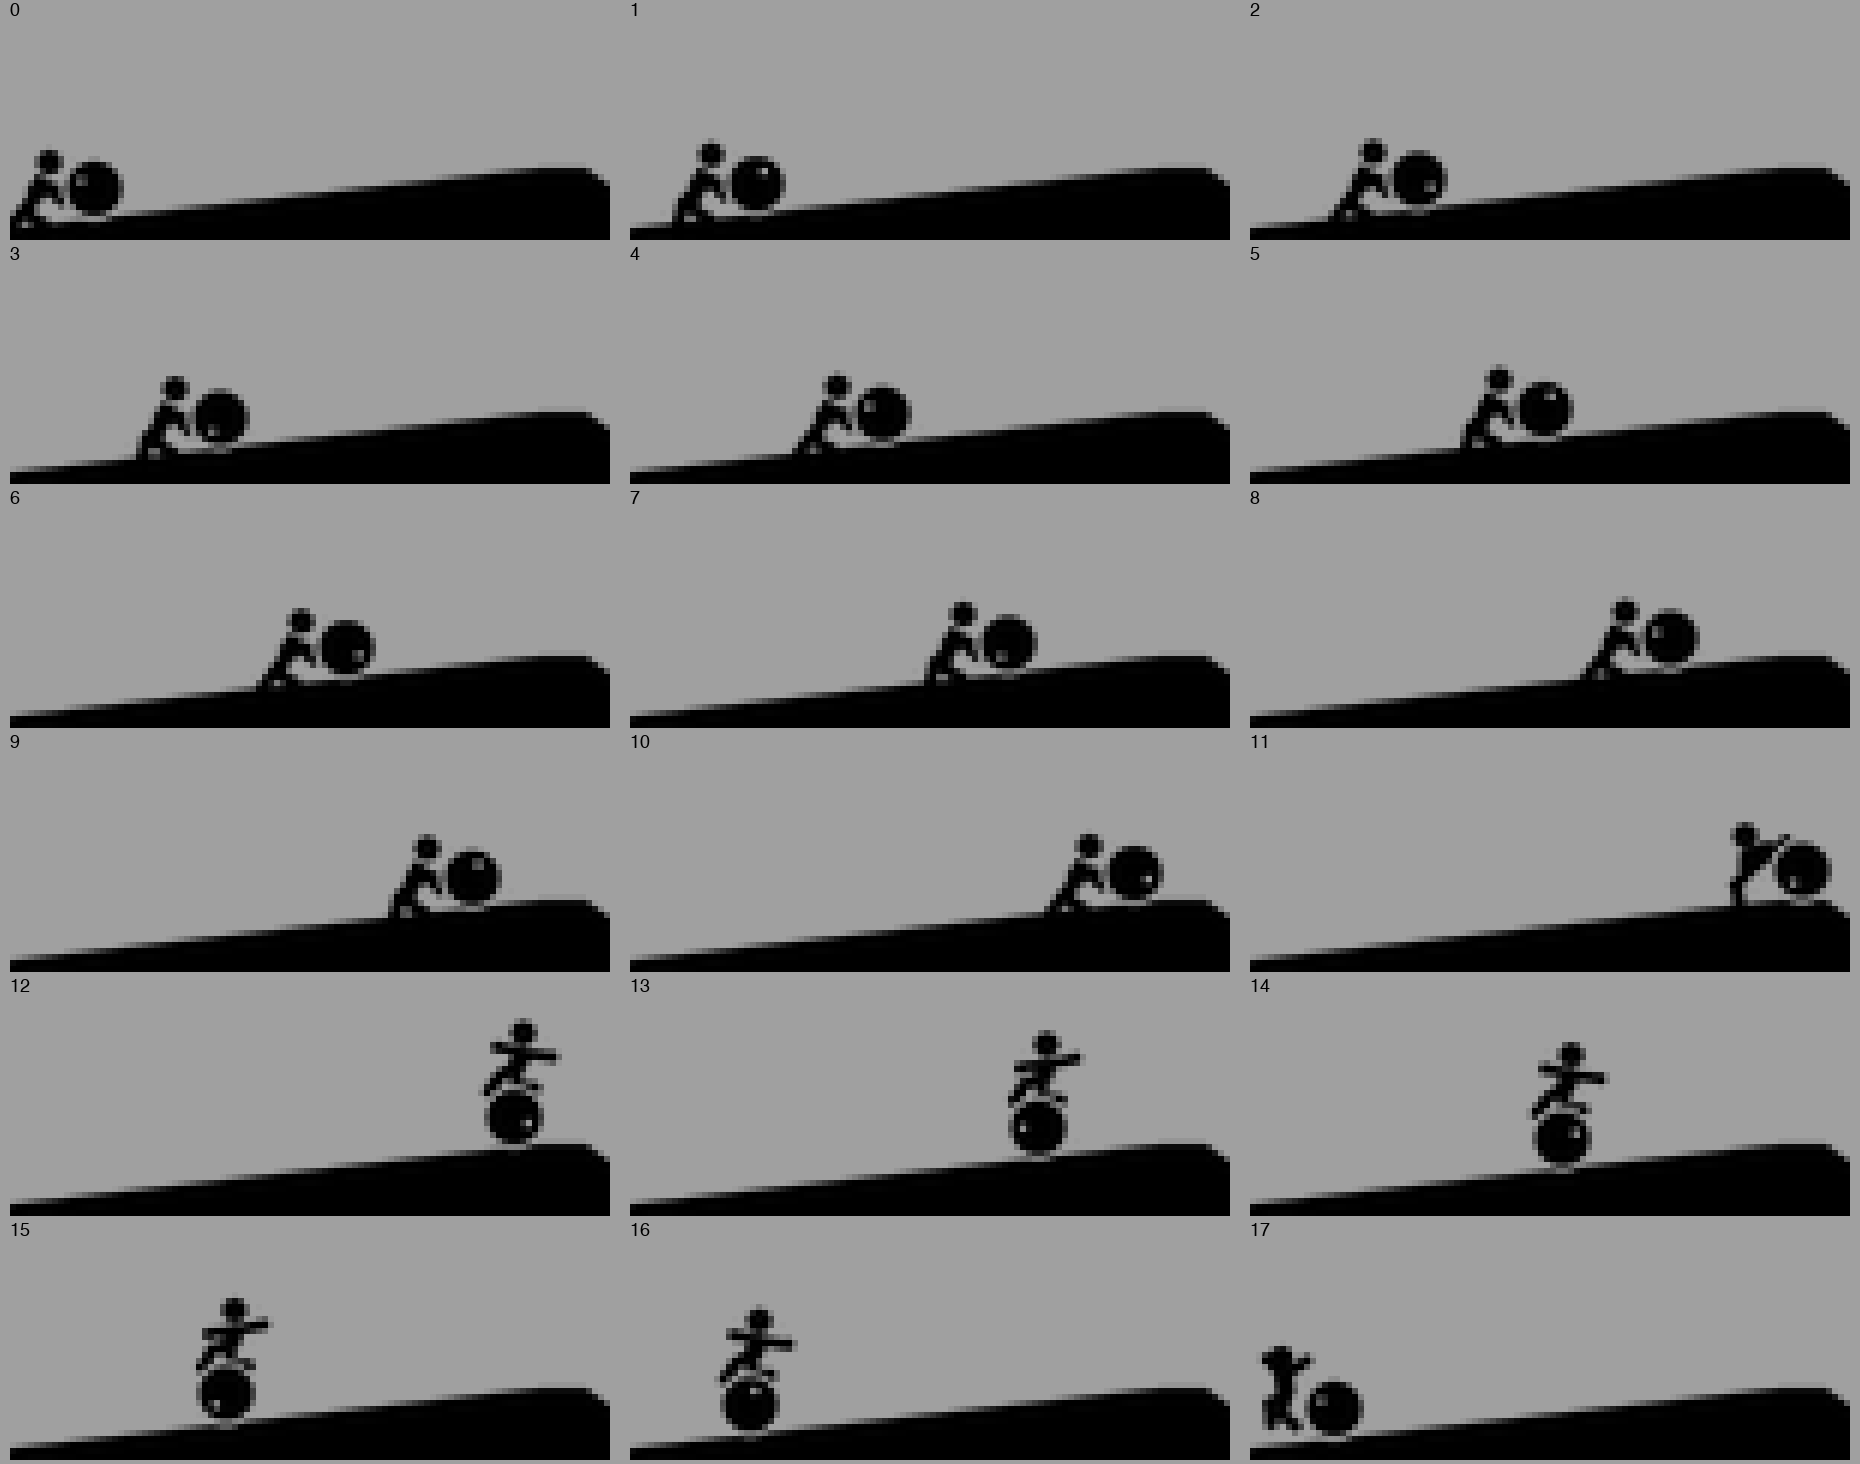
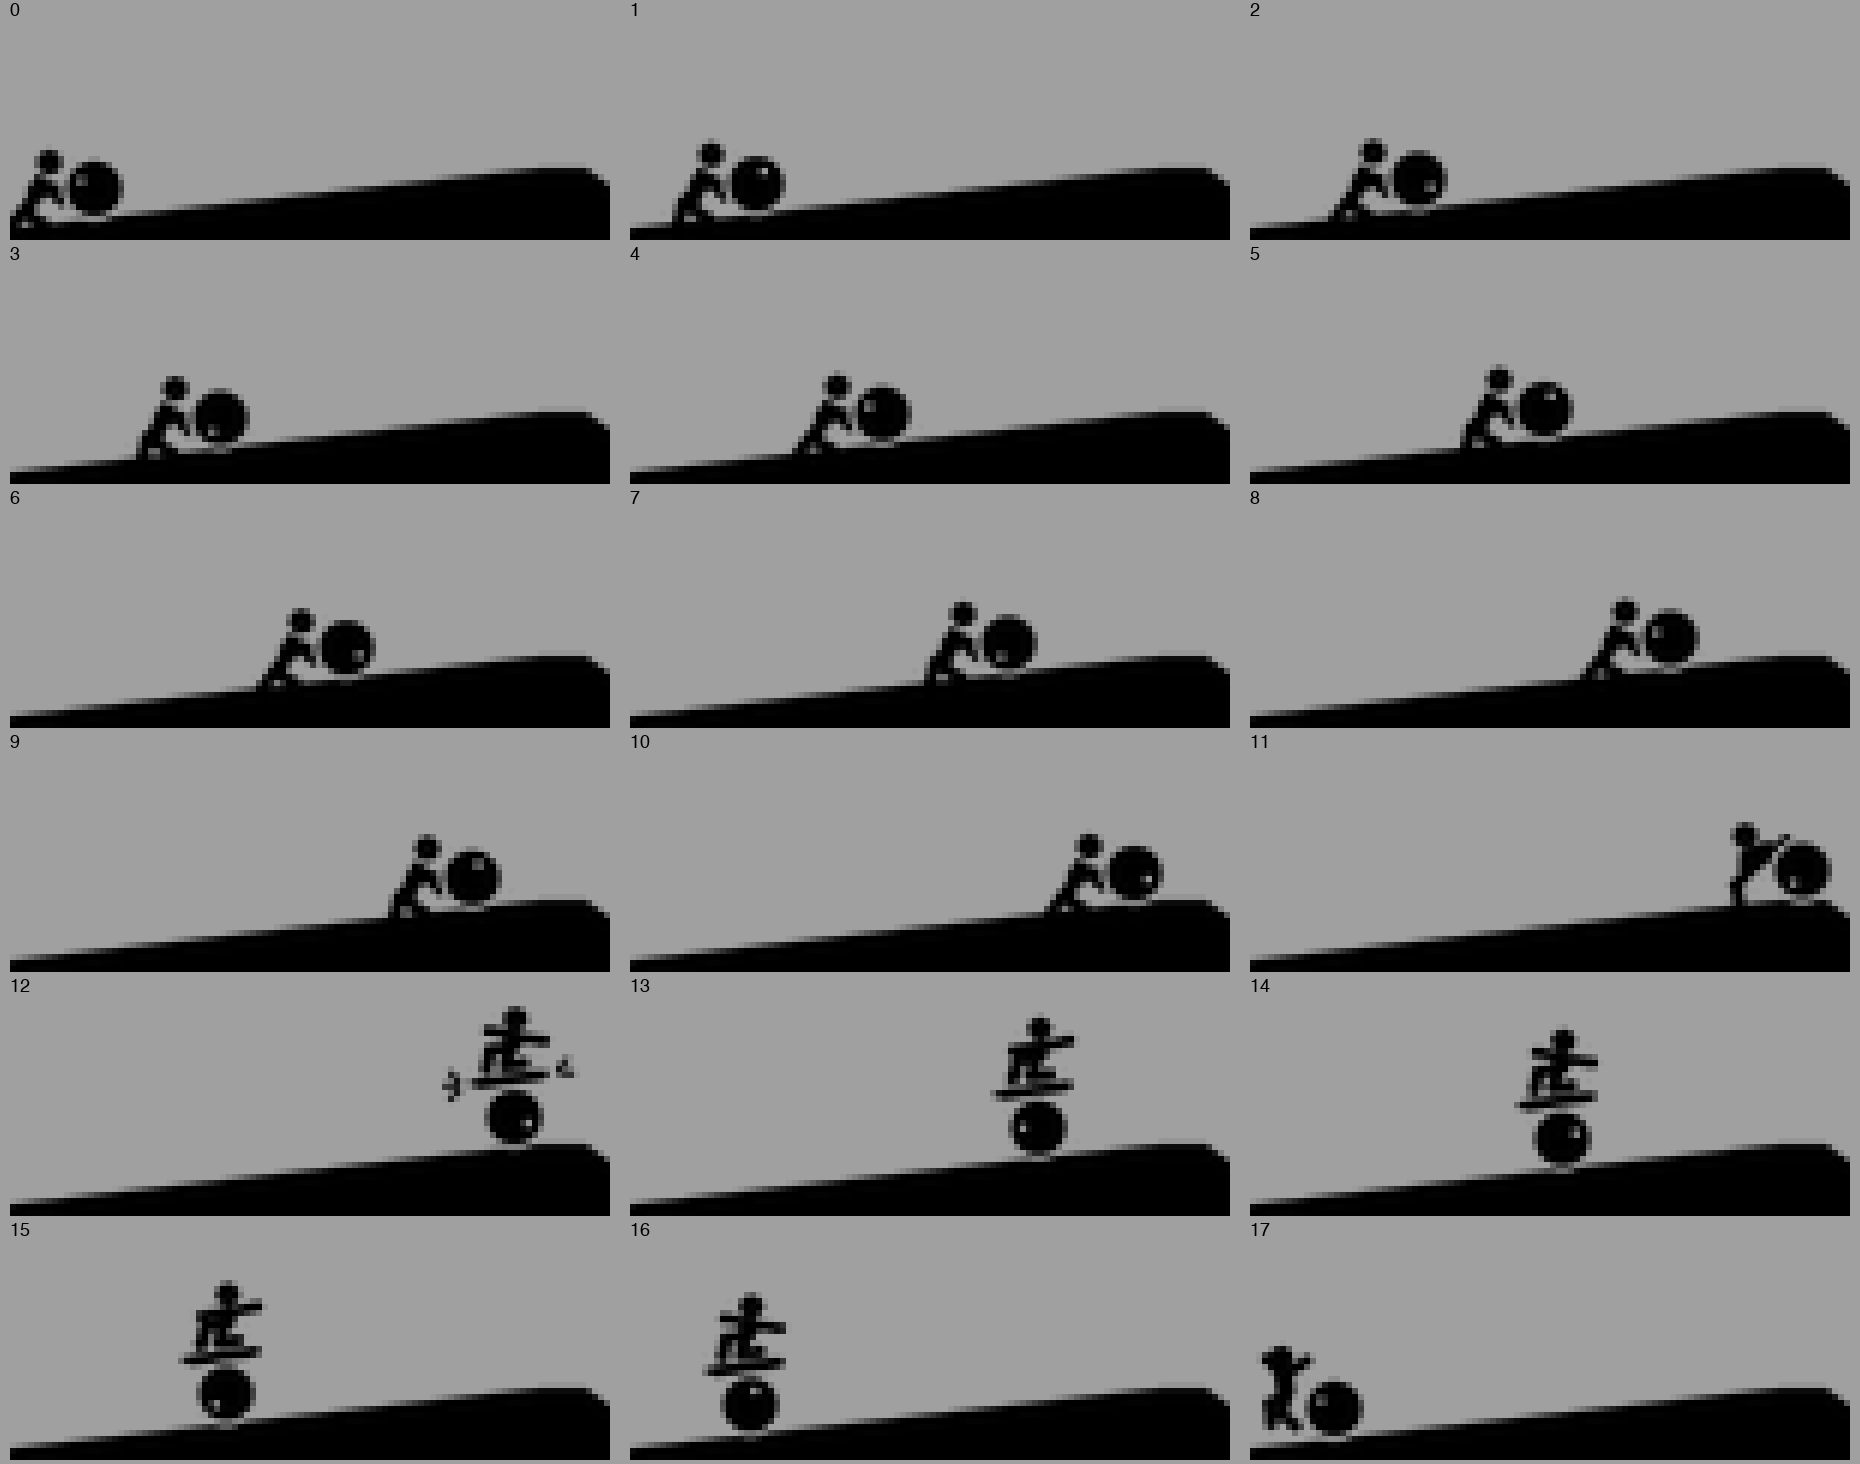
feat: Surfingphus rides a surfboard that appears on the boulder

diff --git a/scratchpad/sisyphus/gen.py b/scratchpad/sisyphus/gen.py
@@ -65,27 +65,58 @@ def leg(d, hip, foot, bend):
     else:
         line(d, hip, foot, 2.0)
 
+BOARD_TILT = math.radians(8)  # nose down-left, roughly following the slope
+
+def board_frame(rx, ry):
+    # board centre sits on top of the boulder, clear of its halo; u runs along the board
+    # (uphill = right), n is the board's up normal
+    u = (math.cos(BOARD_TILT), -math.sin(BOARD_TILT))
+    n = (-math.sin(BOARD_TILT), -math.cos(BOARD_TILT))
+    off = R + 0.9 + 0.9
+    return (rx + n[0] * off, ry + n[1] * off), u, n
+
+def board_pt(c, u, n, s, h):
+    return (c[0] + u[0] * s + n[0] * h, c[1] + u[1] * s + n[1] * h)
+
+def draw_board(d, rx, ry):
+    c, u, n = board_frame(rx, ry)
+    # ~14 px long, 1.8 px thick, pointed nose with a little rocker
+    pts = [(-7.0, 0.4), (-5.0, 0.9), (5.0, 0.9), (6.6, 0.6), (6.6, -0.5), (5.0, -0.9), (-5.0, -0.9)]
+    d.polygon([P(*board_pt(c, u, n, s, h)) for s, h in pts], fill=255)
+
+def sparkle(d, rx, ry):
+    # a few short radiating ticks at the board's ends: the board has just appeared
+    c, u, n = board_frame(rx, ry)
+    for s0, dirs in ((-7.6, ((-1, 0), (-0.8, -0.8), (-0.8, 0.8))), (7.6, ((1, 0), (0.8, -0.8)))):
+        o = board_pt(c, u, n, s0, 0.0)
+        for dx, dy in dirs:
+            L = math.hypot(dx, dy)
+            a = (o[0] + 1.2 * dx / L, o[1] + 1.2 * dy / L)
+            b = (o[0] + 3.0 * dx / L, o[1] + 3.0 * dy / L)
+            line(d, a, b, 0.9)
+
 def surfman(d, mode, rx, ry):
-    # surfer on the boulder's top, side-on, facing left (downhill): wide stance,
-    # knees bent, torso leaning back uphill (right), arms spread out
-    rf = R + 0.9 + 0.55  # foot centre distance from boulder centre (clears the halo)
+    # surfer standing on the board across the boulder's top, side-on, facing left
+    # (downhill): wide stance, knees bent, torso leaning back uphill (right), arms out
+    c, u, n = board_frame(rx, ry)
     A = mode == "surfA"
-    ph = (-0.78, 0.62) if A else (-0.72, 0.68)
-    ft = [(rx + rf * math.sin(p), ry - rf * math.cos(p)) for p in ph]
-    hip = ((ft[0][0] + ft[1][0]) / 2 + 0.8, min(ft[0][1], ft[1][1]) - 3.6)
+    ss = (-3.4, 2.8) if A else (-3.0, 3.2)
+    ft = [board_pt(c, u, n, s, 2.3) for s in ss]
+    hip = ((ft[0][0] + ft[1][0]) / 2 + 0.8, min(ft[0][1], ft[1][1]) - 2.6)
     t = math.radians(26 if A else 18)
-    sh = (hip[0] + 3.0 * math.sin(t), hip[1] - 3.0 * math.cos(t))
-    head = (sh[0] - 0.2, sh[1] - 2.8)
+    sh = (hip[0] + 2.6 * math.sin(t), hip[1] - 2.6 * math.cos(t))
+    head = (sh[0] - 0.2, sh[1] - 2.5)
     torso(d, hip, sh, 3.0)
     for f in ft: leg(d, hip, f, True)
     ash = (sh[0], sh[1] + 0.4)
     hands = [(-4.6, -0.9), (4.6, 0.7)] if A else [(-4.6, 0.7), (4.6, -0.9)]
     for dx, dy in hands: line(d, ash, (ash[0] + dx, ash[1] + dy), 1.8)
-    d.ellipse([P(head[0] - 2, head[1] - 2), P(head[0] + 2, head[1] + 2)], fill=255)
+    d.ellipse([P(head[0] - 1.9, head[1] - 1.9), P(head[0] + 1.9, head[1] + 1.9)], fill=255)
 
 def man(d, fx, mode, rx, ry):
     fy = surf(fx)
     if mode.startswith("surf"):
+        draw_board(d, rx, ry)
         surfman(d, mode, rx, ry)
         return
     if mode == "step":
@@ -161,6 +192,8 @@ def frame(i):
     ang = rx / R + 0.6
     nx, ny = rx + 2.5 * math.cos(ang), ry + 2.5 * math.sin(ang)
     d.ellipse([P(nx - .6, ny - .6), P(nx + .6, ny + .6)], fill=0)
+    if VARIANT == "surfingphus" and i == 12:
+        sparkle(d, rx, ry)
     a = m.resize((100, 36), Image.LANCZOS)
     img = Image.new("RGBA", (100, 36), (0, 0, 0, 0))
     img.putalpha(a)

diff --git a/README.md b/README.md
@@ -76,8 +76,9 @@ That fits a menu-bar runner well. Your CPU never finishes its work either.
 
 Same boulder and the same push up the hill, on a slightly lower hilltop
 so the rider fits. At the top, Surfingphus
-climbs onto the boulder and surfs it back down, arms out for balance, then
-hops off at the bottom and starts pushing again.
+climbs onto the boulder, and a surfboard pops into being across its top. He
+surfs it back down standing on the board, arms out for balance, then the
+board vanishes as he hops off at the bottom and starts pushing again.
 
 - 18 frames, 100 × 36 px, monochrome PNG with a transparent background
 - Frames 0–10 push the boulder up, as in Sisyphus (on the lower hill)
